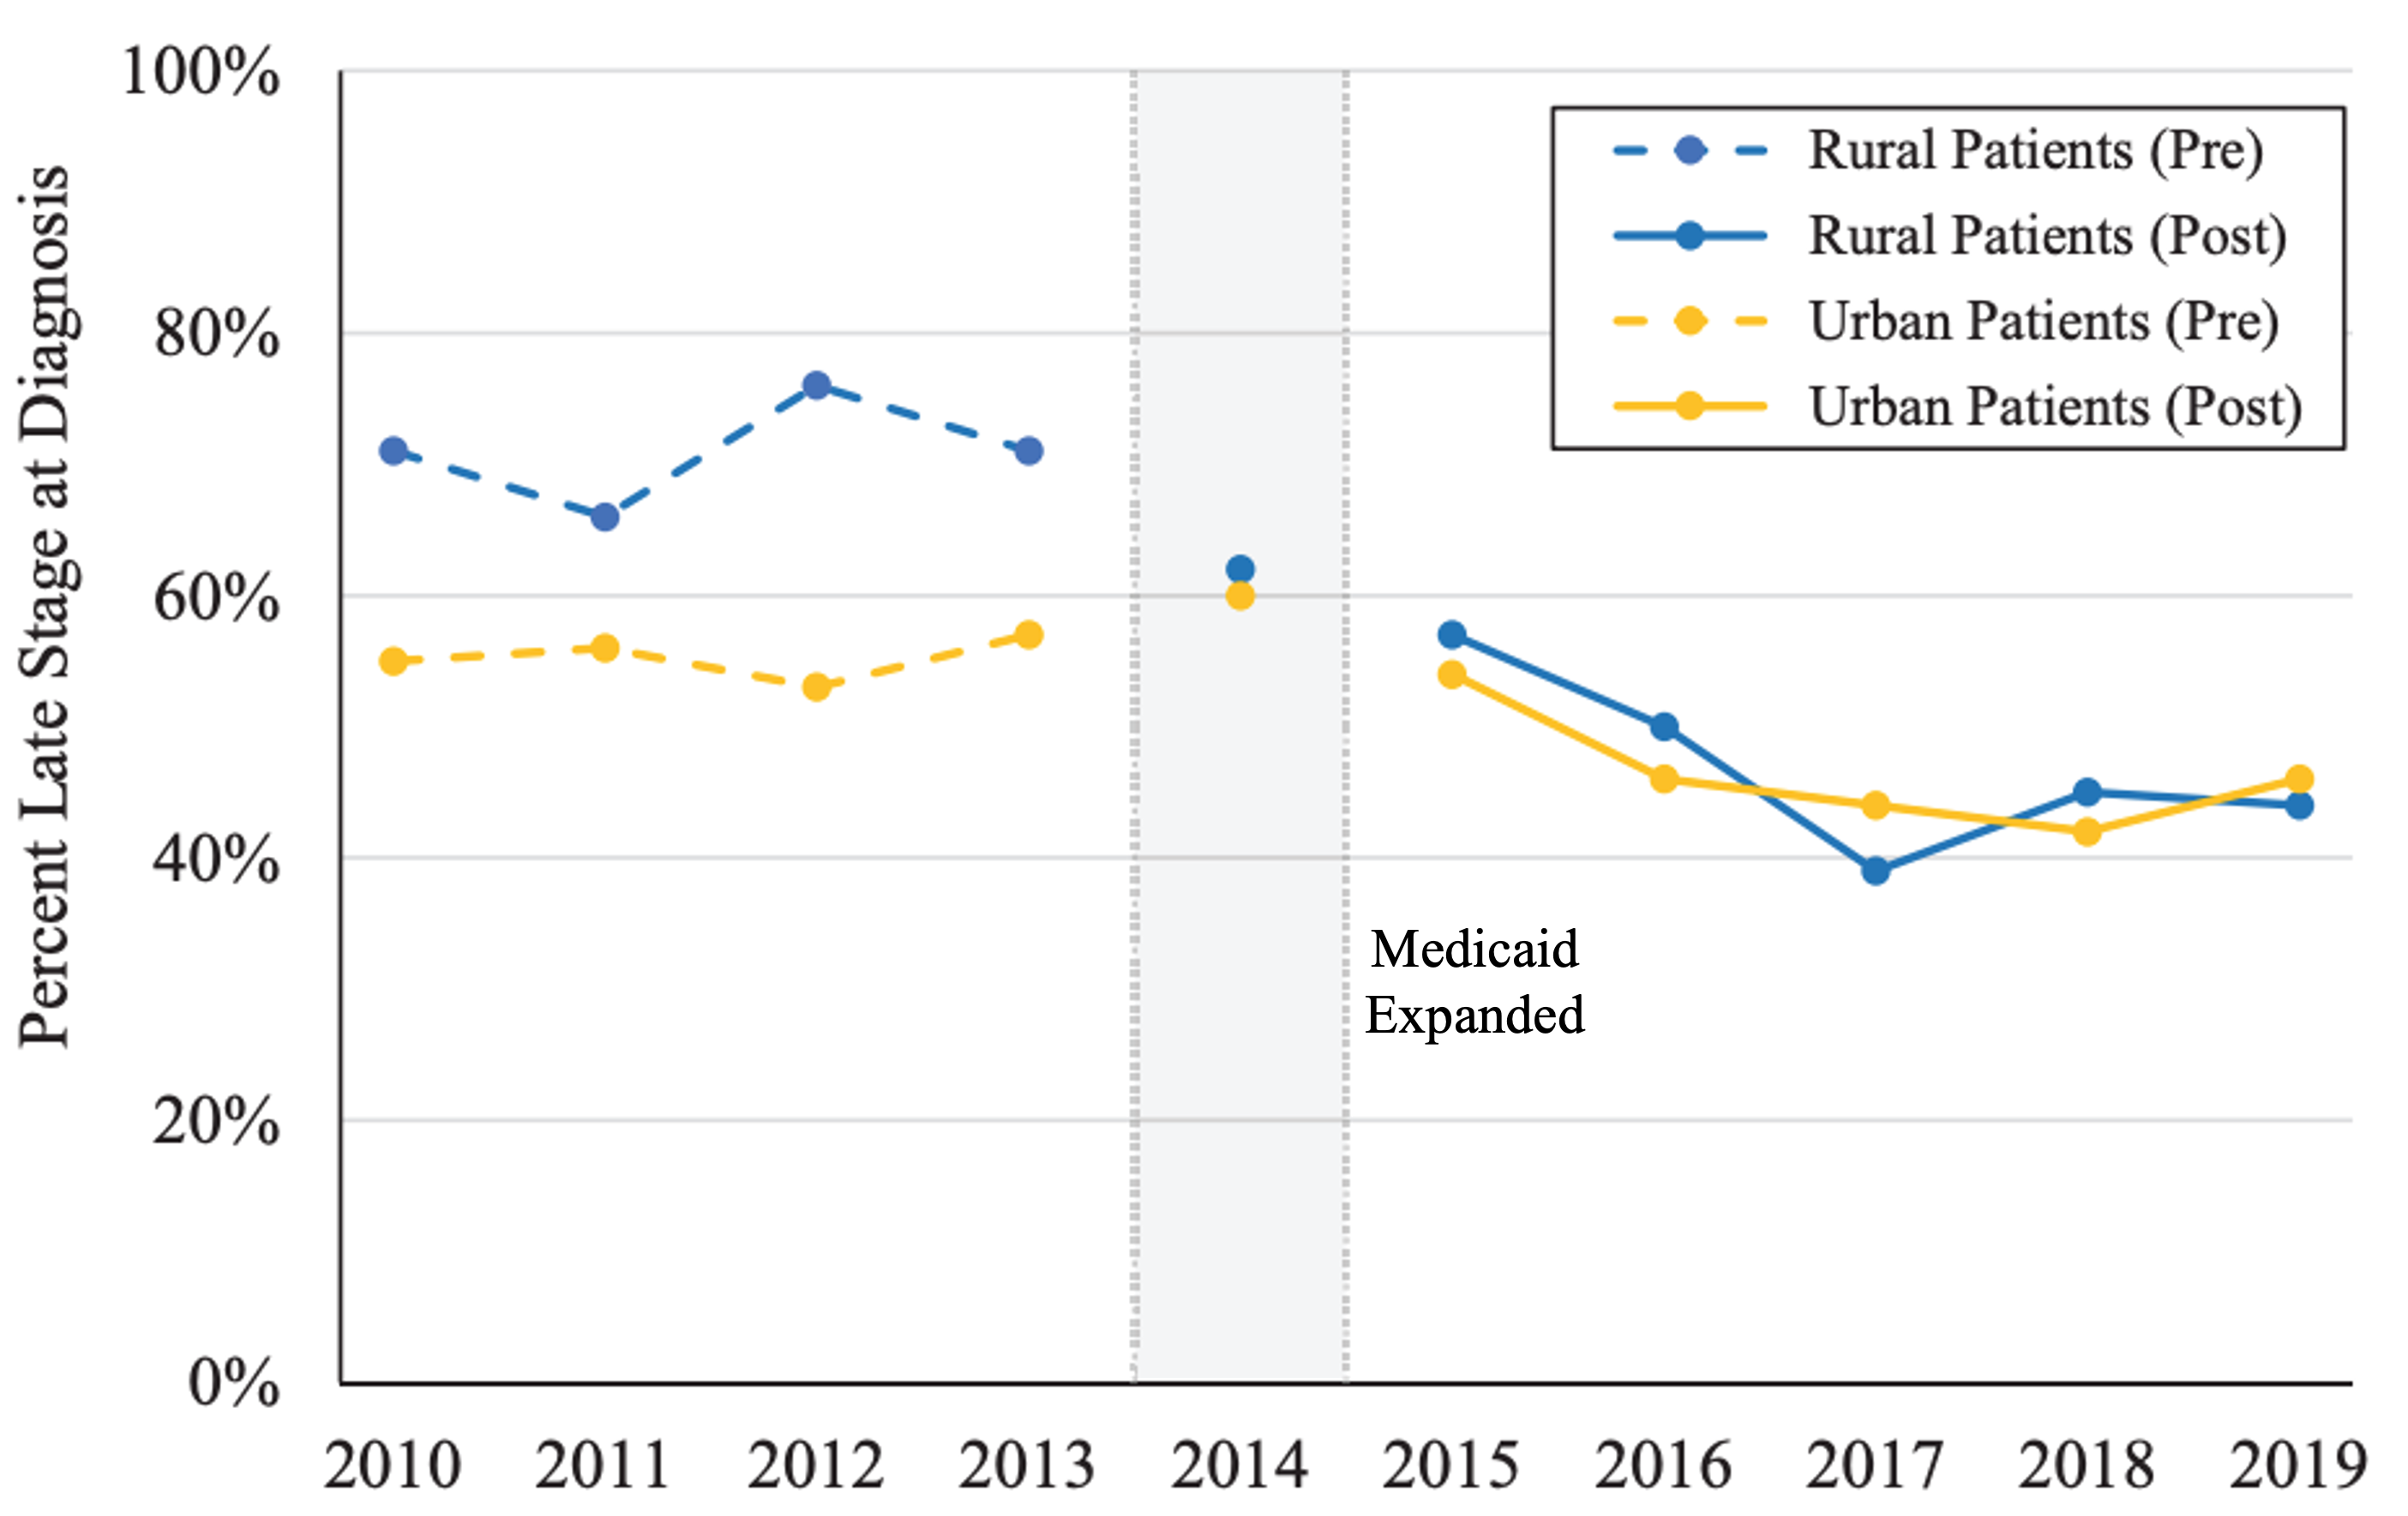
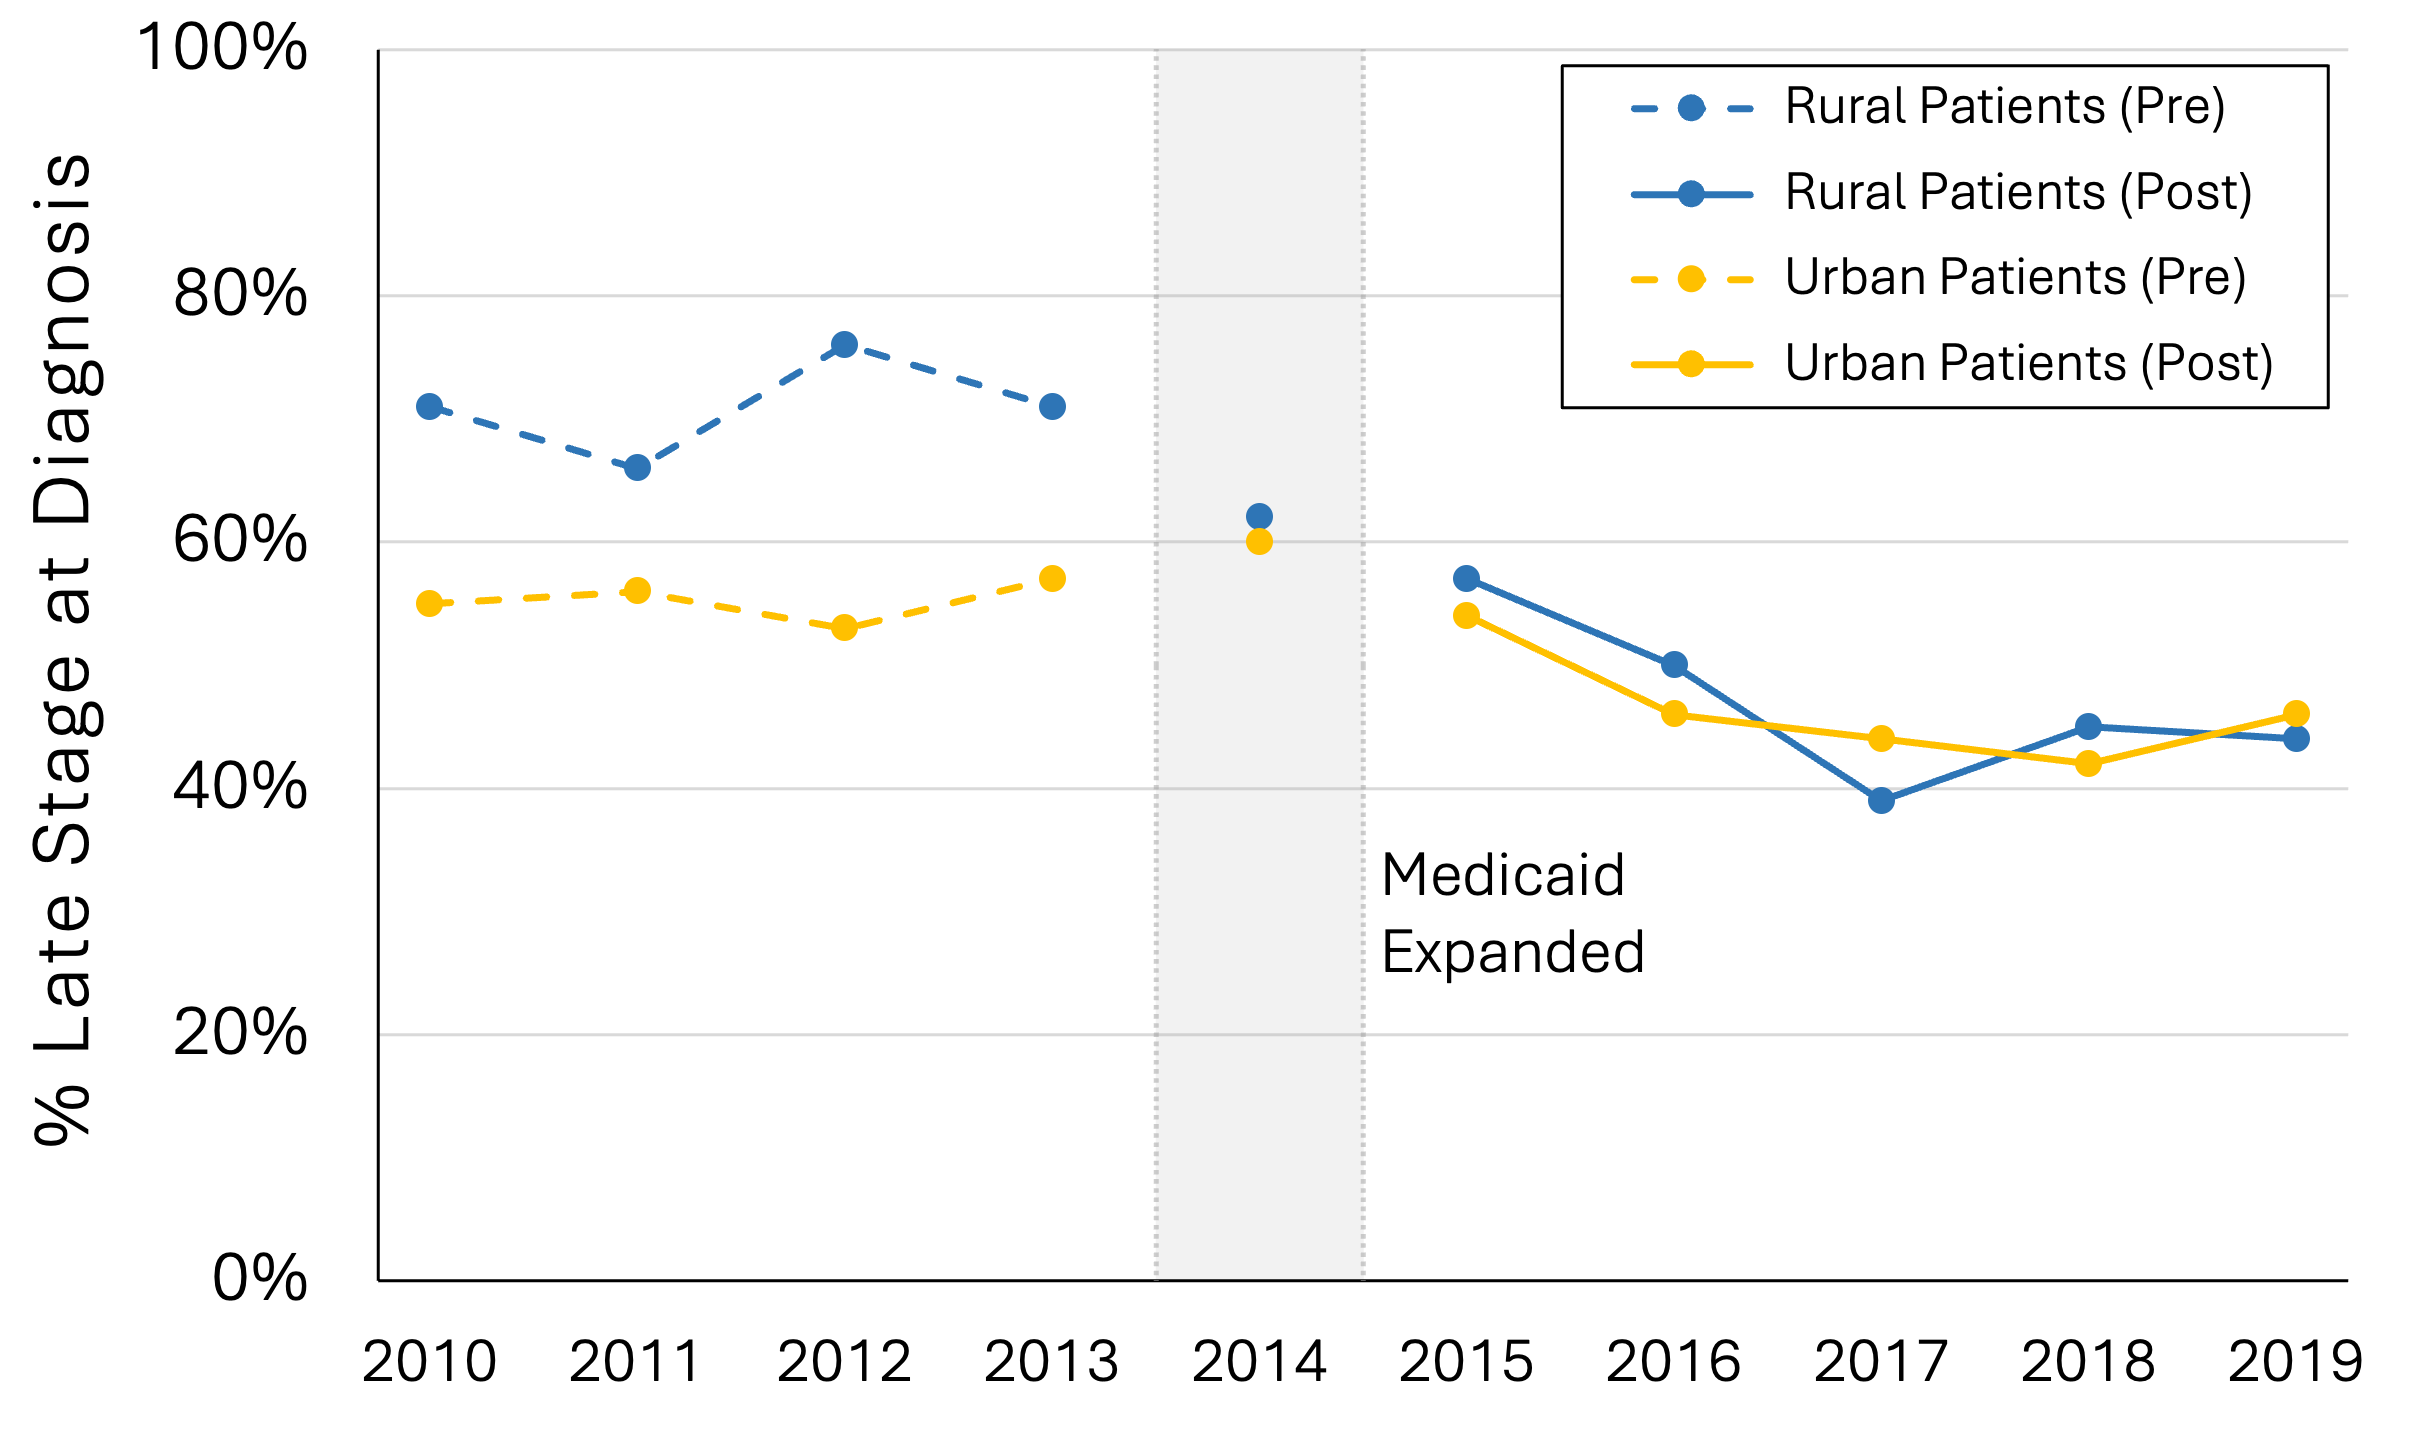
sdf

diff --git a/research.html b/research.html
@@ -73,13 +73,13 @@
         <div class ="about-photo-center">
         <div class="about-info">
           <center><p  class="about-name">My Research</p><br>
-          <img src="JRHFigure1.png" style="width:100%; max-width:500px;"></center><br><br>
+          <img src="JRHFigure1.jpg" style="width:100%; max-width:600px;"></center><br><br>
 
           <p class="about-bio">
 
-          I investigate how people form opinions about health care policy, social spending, and taxation. I also examine the effects of social policies on health outcomes and access to care across lines of race, geography, and socioeconomic status.
-<br><br>I also serve on the Research Council of <a href ="https://ahealthierdemocracy.org/" style="font-weight: normal;" target="_blank" rel="noopener noreferrer">A Healthier Democracy</a></u>, where I study how civic engagement among underserved populations affects health outcomes.
-
+          I investigate how people form opinions about health policy, social spending, and taxation. I also examine the effects of social policies on health outcomes across lines of race, geography, and socioeconomic status.
+Recently, I partnered with <a href ="https://ahealthierdemocracy.org/" style="font-weight: normal;" target="_blank" rel="noopener noreferrer">A Healthier Democracy</a></u> to study mobilization and civic engagement in health care settings affecting marginalized communities.
+<br><br>
 Below is a selection of my ongoing projects and published research.<br><br>
 
                               <center><p  class="about-name"><small> — Peer-Reviewed Publications —</small></p></center>